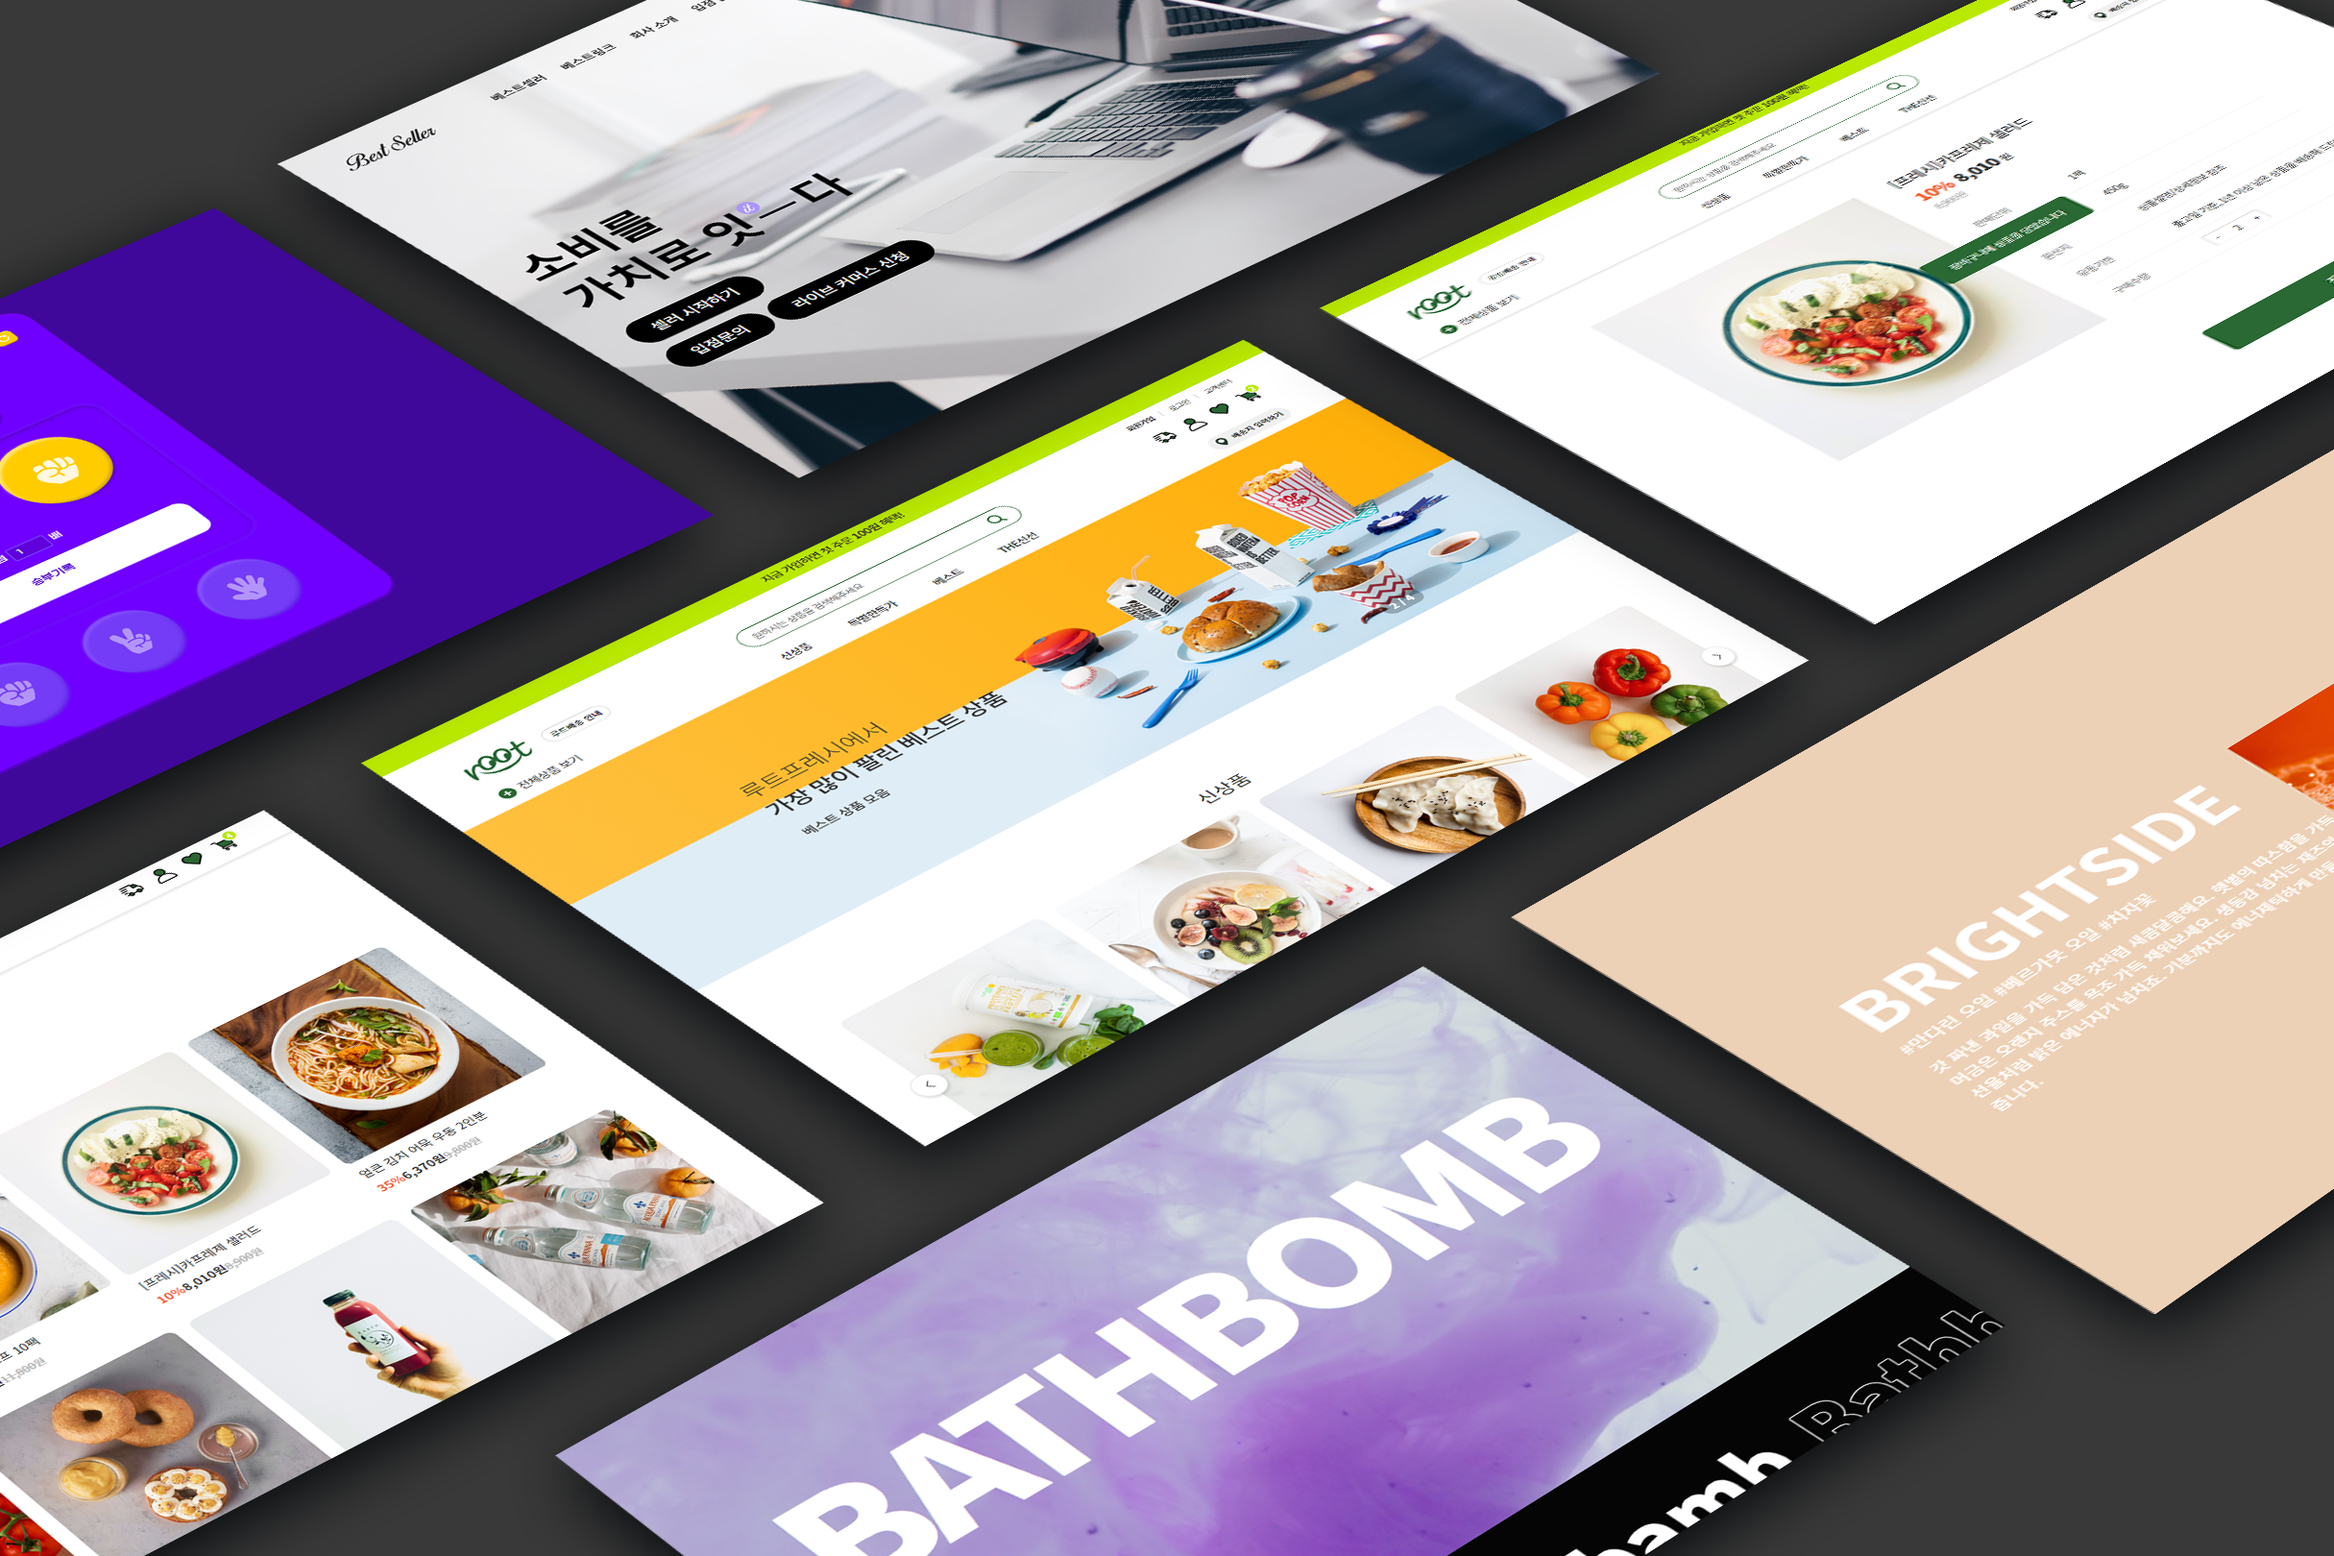
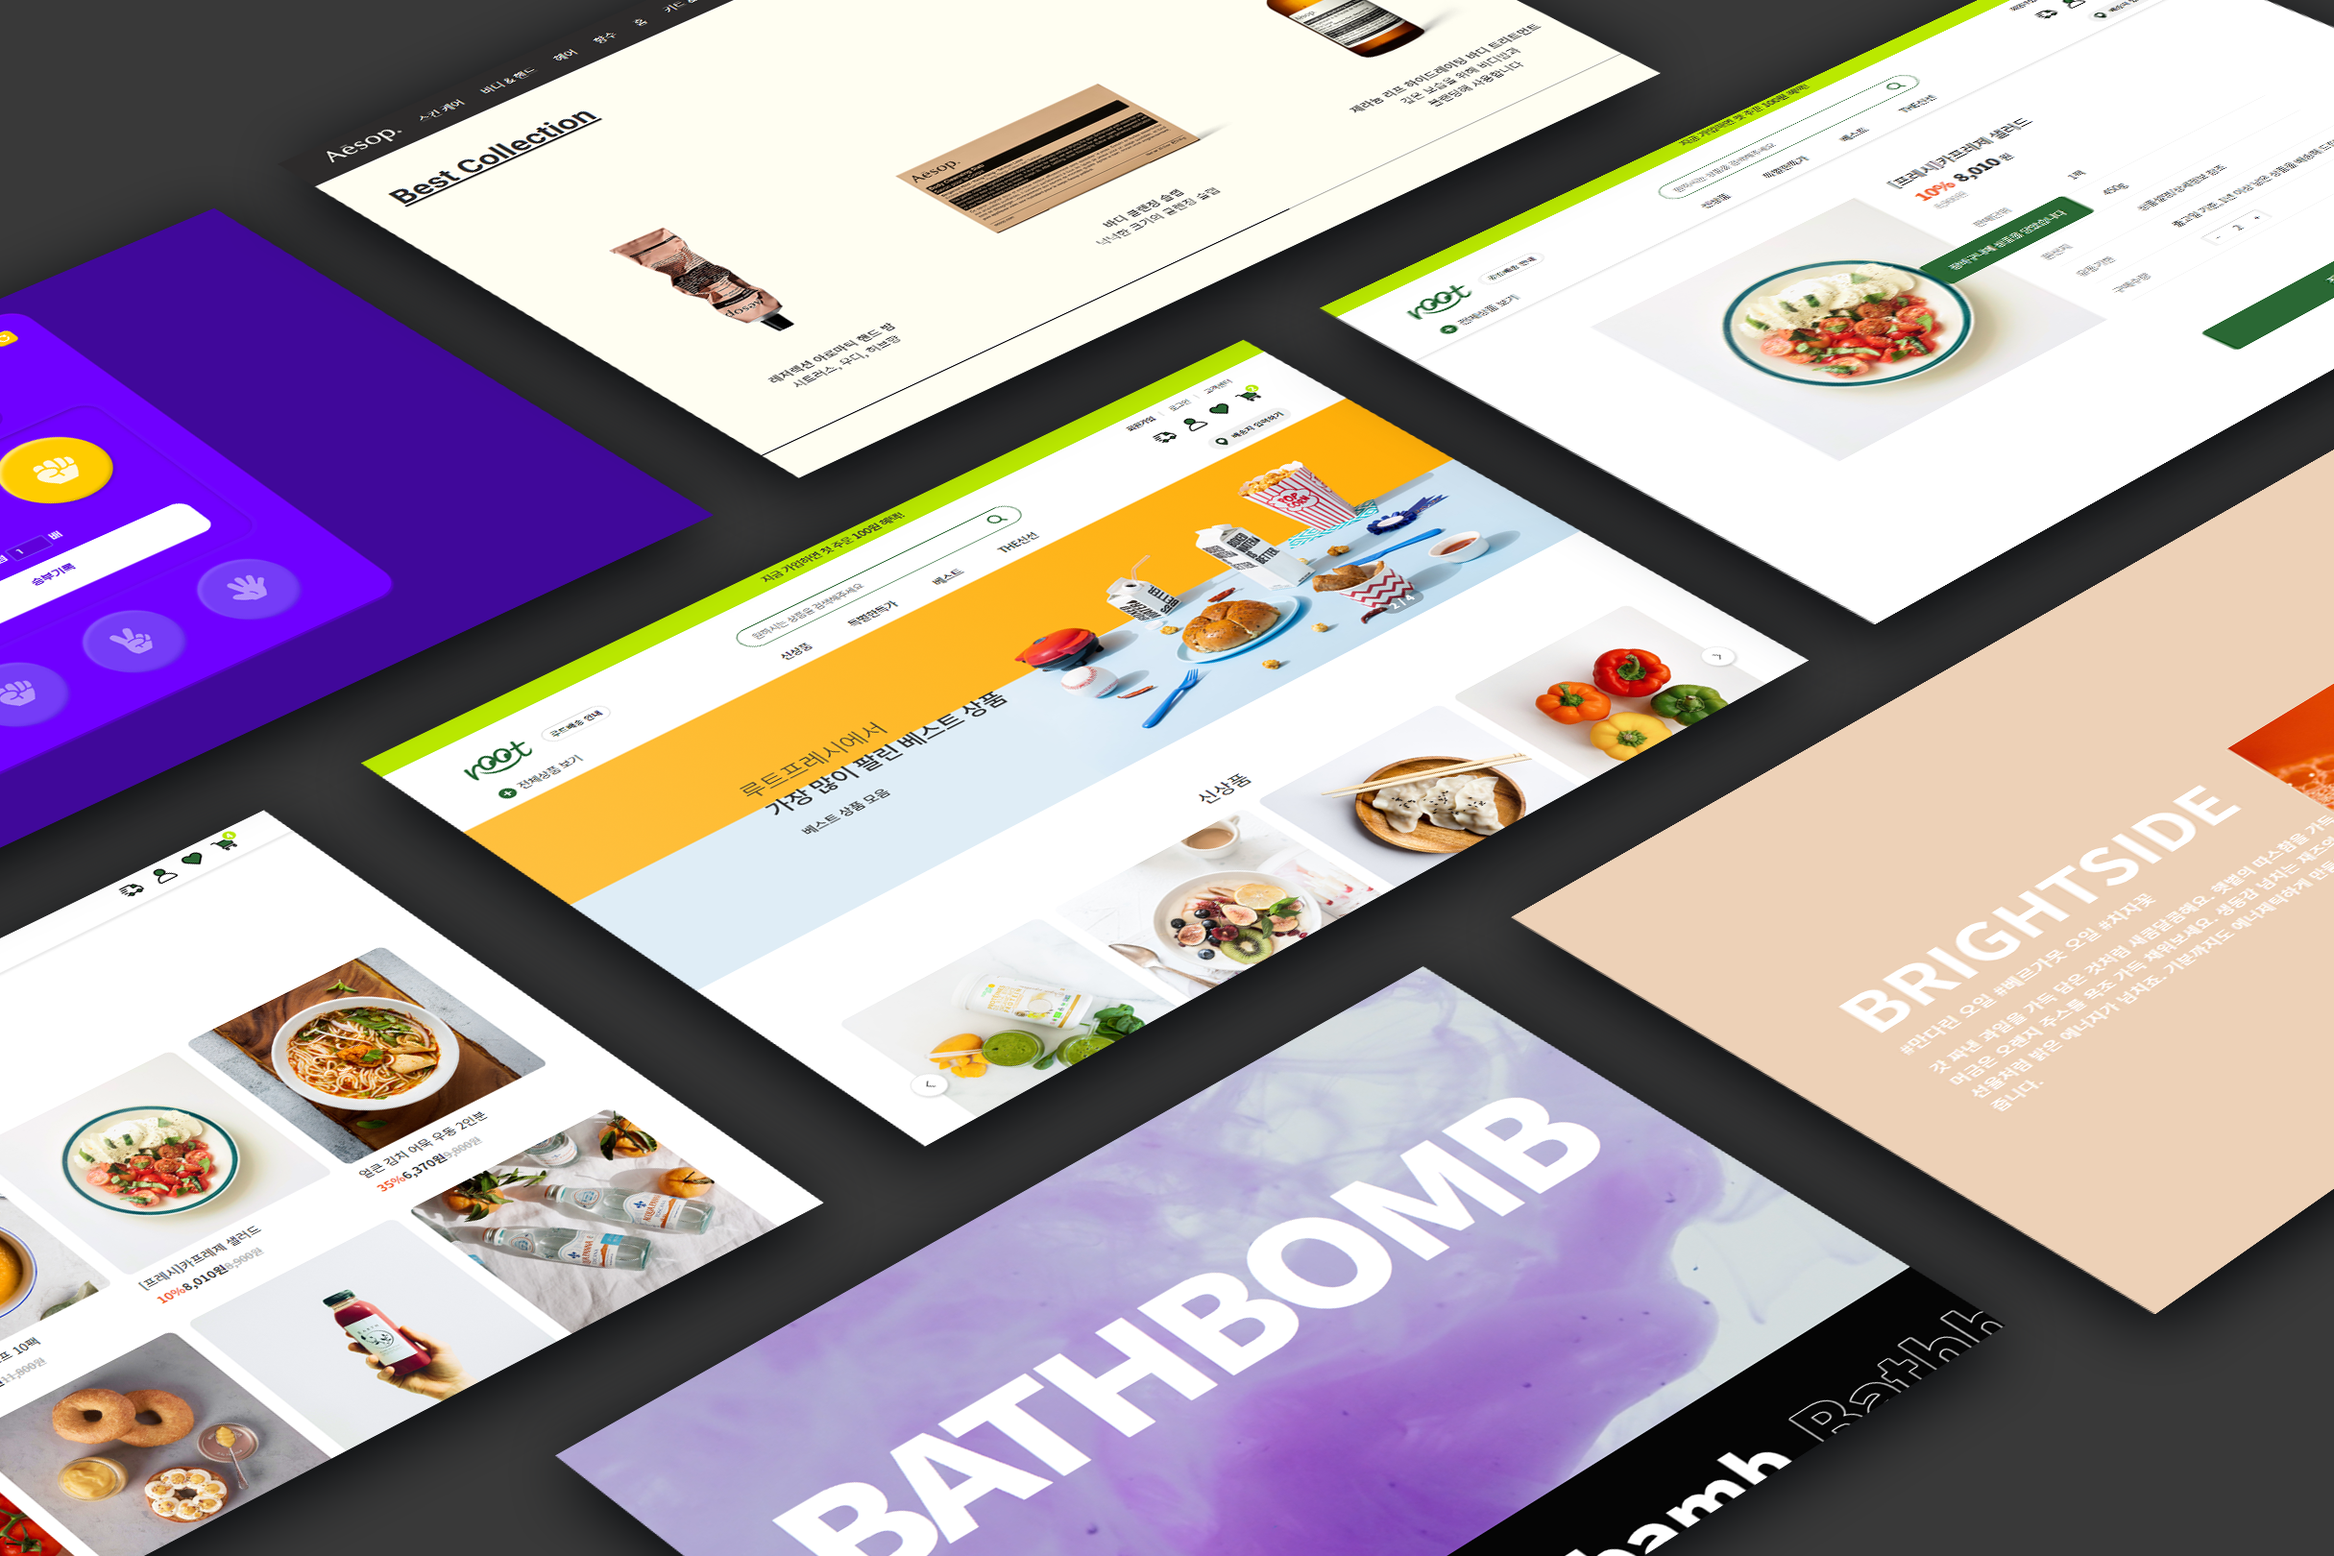
Chore: 포트폴리오 추가

Changed region(s): [[0.1235, 0.0, 0.7099, 0.3086]]

diff --git a/index.html b/index.html
@@ -52,6 +52,7 @@
       <span></span>
     </div>
 
+
     <div class="category">
       <!-- 메뉴 -->
       <h2 class="hidden">카테고리 메뉴</h2>
@@ -63,6 +64,7 @@
       </ul>
     </div>
   </nav>
+
 
   <section id="main">
     <h2 class="hidden">메인 페이지</h2>
@@ -86,6 +88,7 @@
       </div>
     </div>
   </section>
+
 
   <section id="about">
     <h2 class="hidden">어바웃 페이지</h2>
@@ -164,6 +167,7 @@
     </ul>
   </section>
 
+
   <section id="project">
     <h2 class="hidden">프로젝트 페이지</h2>
 
@@ -172,7 +176,8 @@
       <h4 class="section-title">project</h4> <!-- 프로젝트 타이틀 -->
       <img src="image/project1.png" alt="러쉬 바쓰밤 프로젝트 이미지">
       <img src="image/project2.png" alt="루트 프레시 프로젝트 이미지">
-      <img src="image/project3.png" alt="가위바위보 게임 프로젝트 이미지">
+      <img src="image/project3.png" alt="이솝 프로젝트 이미지">
+      <img src="image/project4.png" alt="가위바위보 게임 프로젝트 이미지">
     </div>
     <!-- 프로젝트 내용(오른쪽) -->
     <div class="contents-wrap">
@@ -250,7 +255,7 @@
           <h5>주요 기능</h5>
           <p>장바구니, 검색, 필터, 로그인, 회원가입 기능</p>
           <p>디테일 페이지, 메뉴바 고정, 탭 메뉴, 모달창</p>
-          <p>반응형 모바일에 최적화된 UI</p>
+          <p>해상도별 최적화된 UI</p>
         </li>
         <!-- 프로젝트 보기 버튼 -->
         <li class="view-btn">
@@ -261,6 +266,49 @@
       </ul>
 
       <!-- 프로젝트 콘텐츠 3 -->
+      <ul id="pro-contents">
+        <!-- 타이틀 -->
+        <li class="pro-title">
+          <div class="hidden-wrap">
+            <p class="number">03</p>
+          </div>
+          <div class="hidden-wrap">
+            <h4 class="pro-name">easop</h4>
+          </div>
+        </li>
+        <!-- 사용 스킬 -->
+        <li class="pro-skill">
+          <span>#반응형</span>
+          <span>#scss</span>
+          <span>#jquery</span>
+        </li>
+        <!-- 설명 -->
+        <li class="description">
+          <p>기여도: 100%</p>
+          <p>
+            이솝 브랜드의 사이트 입니다.<br>
+            반응형으로 제작되었으며 이솝 웹사이트와 유사하게 제작하셨습니다.
+            차별점을 둔 부분은 헤더에 슬라이드 기능을 추가하여 마우스 오버시 
+            위에서부터 아래로 하위 메뉴가 부드럽게 슬라이드되어 내려오도록 하였습니다.
+          </p>
+        </li>
+        <!-- 주요 기능 -->
+        <li class="technique">
+          <h5>주요 기능</h5>
+          <p>제품 슬라이드</p>
+          <p>이미지 애니메이션</p>
+          <p>아코디언 메뉴</p>
+          <p>헤더 메뉴 슬라이드</p>
+          <p>해상도별 최적화된 UI</p>
+        </li>
+        <li class="view-btn">
+          <a href="https://jieuning.github.io/aesop/">
+            <button>view</button>
+          </a>
+        </li>
+      </ul>
+
+      <!-- 프로젝트 콘텐츠 4 -->
       <ul id="pro-contents">
         <!-- 타이틀 -->
         <li class="pro-title">
@@ -300,6 +348,7 @@
       </ul>
     </div>
   </section>
+
 
   <section id="contact">
     <h2 class="hidden">콘텍트 페이지</h2>
